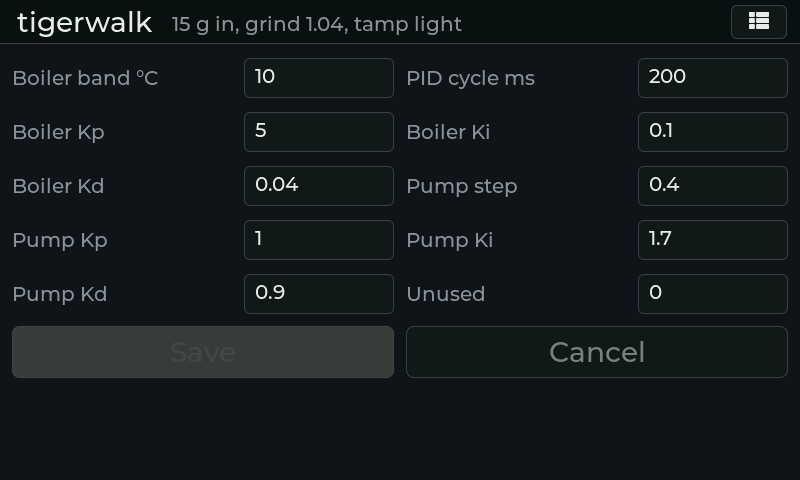
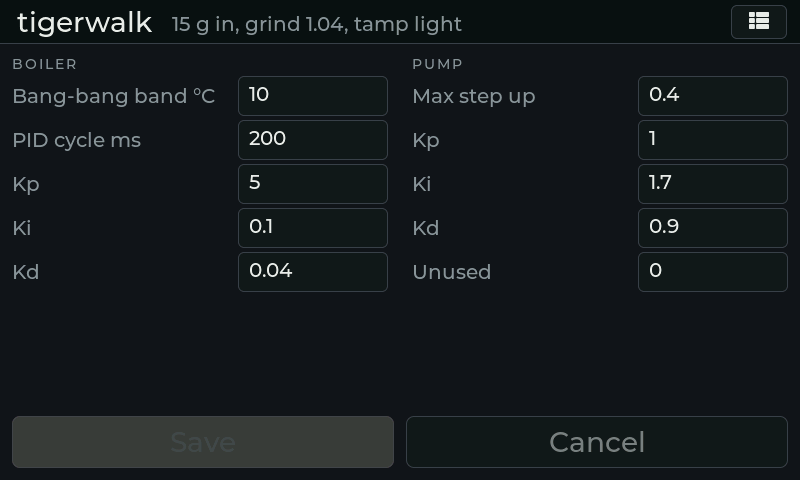
ui: phase name in the timer tile, profile highlight follows the selection, settings grouped by function
Claude-Session: https://claude.ai/code/session_016XyD3ZMrdy4hijk3p6yM2m

diff --git a/gaggiano-v2/lv_buildUI.c b/gaggiano-v2/lv_buildUI.c
@@ -10,6 +10,7 @@
 #include "my_logging.h"
 #include "theme.h"
 #include "history.h"
+#include "sequencer.h"
 #include <stdio.h>
 #include <stdlib.h>
 #include <string.h>
@@ -294,7 +295,7 @@ static void profile_selected(lv_event_t* e) {
       lv_label_set_text(selectedProfileLabel, clickedProfileName);
       writeCurrentProfile(clickedProfileName);
       setupAndReadConfigFile();
-      //TODO shouldn't we update the settings/advanced tab?
+      updateProfileTab();
     }
   }
 }
@@ -634,8 +635,19 @@ void updateUI() {
   } else {
     lv_label_set_text(time_label, "0");
   }
-  if (state->lastBrewTime > 0 && !running) {
+  const char* phase = NULL;
+  int ph = sequencerPhase();
+  if (ph == PHASE_BLOOM_FILL) phase = "PRIME";
+  else if (ph == PHASE_BLOOM_WAIT) phase = "WAIT";
+  else if (ph == PHASE_BREW || state->isBrewing) phase = "BREW";
+  else if (state->isCleaning) phase = "CLEAN";
+  else if (state->isSteaming) phase = "STEAM";
+  if (phase != NULL) {
+    lv_label_set_text(time_sub_label, phase);
+    lv_obj_set_style_text_color(time_sub_label, theme_amber(), 0);
+  } else if (state->lastBrewTime > 0) {
     lv_label_set_text_fmt(time_sub_label, "LAST SHOT %.0f S", state->lastBrewTime);
+    lv_obj_set_style_text_color(time_sub_label, theme_muted(), 0);
   } else {
     lv_label_set_text(time_sub_label, "");
   }
@@ -972,20 +984,51 @@ static void profile_create(lv_obj_t* parent) {
   }
 }
 
-// One "label: [value]" pair of a settings grid at (col, row); col is 0 or 2.
-static lv_obj_t* field_create(lv_obj_t* parent, const char* text, lv_obj_t* kb, int col, int row) {
-  lv_obj_t* label = lv_label_create(parent);
+// A titled group of fields (flex column) inside a settings column.
+static lv_obj_t* group_create(lv_obj_t* column, const char* title) {
+  lv_obj_t* group = lv_obj_create(column);
+  lv_obj_remove_style_all(group);
+  lv_obj_set_width(group, LV_PCT(100));
+  lv_obj_set_height(group, LV_SIZE_CONTENT);
+  lv_obj_set_flex_flow(group, LV_FLEX_FLOW_COLUMN);
+  lv_obj_set_style_pad_row(group, 4, 0);
+  lv_obj_t* label = lv_label_create(group);
+  theme_apply_tile_label(label);
+  lv_label_set_text(label, title);
+  return group;
+}
+
+// One "label ........ [value]" row in a group.
+static lv_obj_t* field_create(lv_obj_t* group, const char* text, lv_obj_t* kb) {
+  lv_obj_t* row = lv_obj_create(group);
+  lv_obj_remove_style_all(row);
+  lv_obj_set_width(row, LV_PCT(100));
+  lv_obj_set_height(row, 40);
+  lv_obj_set_flex_flow(row, LV_FLEX_FLOW_ROW);
+  lv_obj_set_flex_align(row, LV_FLEX_ALIGN_START, LV_FLEX_ALIGN_CENTER, LV_FLEX_ALIGN_CENTER);
+
+  lv_obj_t* label = lv_label_create(row);
   theme_apply_field_label(label);
   lv_label_set_text(label, text);
-  lv_obj_set_grid_cell(label, LV_GRID_ALIGN_START, col, 1, LV_GRID_ALIGN_CENTER, row, 1);
+  lv_obj_set_flex_grow(label, 1);
 
-  lv_obj_t* tf = lv_textarea_create(parent);
+  lv_obj_t* tf = lv_textarea_create(row);
   theme_apply_field(tf);
   lv_textarea_set_one_line(tf, true);
-  lv_obj_set_height(tf, 40);
+  lv_obj_set_size(tf, 150, 40);
   lv_obj_add_event_cb(tf, setting_field_changed, LV_EVENT_ALL, kb);
-  lv_obj_set_grid_cell(tf, LV_GRID_ALIGN_STRETCH, col + 1, 1, LV_GRID_ALIGN_CENTER, row, 1);
   return tf;
+}
+
+// A settings column: groups stacked top to bottom.
+static lv_obj_t* column_create(lv_obj_t* parent, int col, int row) {
+  lv_obj_t* column = lv_obj_create(parent);
+  lv_obj_remove_style_all(column);
+  lv_obj_set_height(column, LV_SIZE_CONTENT);
+  lv_obj_set_flex_flow(column, LV_FLEX_FLOW_COLUMN);
+  lv_obj_set_style_pad_row(column, 12, 0);
+  lv_obj_set_grid_cell(column, LV_GRID_ALIGN_STRETCH, col, 1, LV_GRID_ALIGN_START, row, 1);
+  return column;
 }
 
 static lv_obj_t* view_btn_create(lv_obj_t* parent, const char* text, lv_event_cb_t cb) {
@@ -1012,9 +1055,10 @@ static lv_obj_t* numeric_keyboard_create(void) {
 static void settings_create(lv_obj_t* parent) {
   theme_apply_view(parent);
   lv_obj_clear_flag(parent, LV_OBJ_FLAG_SCROLLABLE);
-  static lv_coord_t col_dsc[] = { LV_GRID_FR(1), 150, LV_GRID_FR(1), 150, LV_GRID_TEMPLATE_LAST };
-  static lv_coord_t row_dsc[] = { 40, 44, 44, 44, 44, 44, 52, LV_GRID_TEMPLATE_LAST };
+  static lv_coord_t col_dsc[] = { LV_GRID_FR(1), LV_GRID_FR(1), LV_GRID_TEMPLATE_LAST };
+  static lv_coord_t row_dsc[] = { 40, LV_GRID_FR(1), 52, LV_GRID_TEMPLATE_LAST };
   lv_obj_set_grid_dsc_array(parent, col_dsc, row_dsc);
+  lv_obj_set_style_pad_column(parent, 24, 0);
 
   lv_obj_t* kb = numeric_keyboard_create();
   lv_obj_t* kb2 = lv_keyboard_create(lv_scr_act());
@@ -1027,23 +1071,30 @@ static void settings_create(lv_obj_t* parent) {
   lv_textarea_set_placeholder_text(edit_notes_tf, "Notes");
   lv_obj_set_height(edit_notes_tf, 40);
   lv_obj_add_event_cb(edit_notes_tf, setting_field_changed, LV_EVENT_ALL, kb2);
-  lv_obj_set_grid_cell(edit_notes_tf, LV_GRID_ALIGN_STRETCH, 0, 4, LV_GRID_ALIGN_CENTER, 0, 1);
+  lv_obj_set_grid_cell(edit_notes_tf, LV_GRID_ALIGN_STRETCH, 0, 2, LV_GRID_ALIGN_CENTER, 0, 1);
 
-  brew_temp_tf = field_create(parent, "Brew temp °C", kb, 0, 1);
-  brew_pressure_tf = field_create(parent, "Brew bar", kb, 2, 1);
-  steam_temp_tf = field_create(parent, "Steam temp °C", kb, 0, 2);
-  steam_max_pressure_tf = field_create(parent, "Steam max bar", kb, 2, 2);
-  steam_pump_output_perc_tf = field_create(parent, "Steam pump %", kb, 0, 3);
-  brew_timer_tf = field_create(parent, "Auto brew s", kb, 2, 3);
-  blooming_pressure_tf = field_create(parent, "Bloom bar", kb, 0, 4);
-  blooming_fill_time_tf = field_create(parent, "Bloom fill s", kb, 2, 4);
-  blooming_wait_time_tf = field_create(parent, "Bloom wait s", kb, 0, 5);
+  lv_obj_t* left = column_create(parent, 0, 1);
+  lv_obj_t* g = group_create(left, "BREW");
+  brew_temp_tf = field_create(g, "Temperature °C", kb);
+  brew_pressure_tf = field_create(g, "Pressure bar", kb);
+  g = group_create(left, "STEAM");
+  steam_temp_tf = field_create(g, "Temperature °C", kb);
+  steam_max_pressure_tf = field_create(g, "Max pressure bar", kb);
+  steam_pump_output_perc_tf = field_create(g, "Pump %", kb);
+
+  lv_obj_t* right = column_create(parent, 1, 1);
+  g = group_create(right, "PRIME");
+  blooming_pressure_tf = field_create(g, "Pressure bar", kb);
+  blooming_fill_time_tf = field_create(g, "Fill s", kb);
+  blooming_wait_time_tf = field_create(g, "Wait s", kb);
+  g = group_create(right, "AUTO");
+  brew_timer_tf = field_create(g, "Brew s", kb);
 
   lv_obj_t* row = lv_obj_create(parent);
   lv_obj_remove_style_all(row);
   lv_obj_set_flex_flow(row, LV_FLEX_FLOW_ROW);
   lv_obj_set_style_pad_column(row, GAP, 0);
-  lv_obj_set_grid_cell(row, LV_GRID_ALIGN_STRETCH, 0, 4, LV_GRID_ALIGN_STRETCH, 6, 1);
+  lv_obj_set_grid_cell(row, LV_GRID_ALIGN_STRETCH, 0, 2, LV_GRID_ALIGN_STRETCH, 2, 1);
   setBtn = view_btn_create(row, "Save", setButtonClicked);
   view_btn_create(row, "Cancel", cancelButtonClicked);
   clearLogsBtn = view_btn_create(row, "Clear logs", clearLogsBtnClicked);
@@ -1052,28 +1103,34 @@ static void settings_create(lv_obj_t* parent) {
 static void advancedSettings_create(lv_obj_t* parent) {
   theme_apply_view(parent);
   lv_obj_clear_flag(parent, LV_OBJ_FLAG_SCROLLABLE);
-  static lv_coord_t col_dsc[] = { LV_GRID_FR(1), 150, LV_GRID_FR(1), 150, LV_GRID_TEMPLATE_LAST };
-  static lv_coord_t row_dsc[] = { 44, 44, 44, 44, 44, 52, LV_GRID_TEMPLATE_LAST };
+  static lv_coord_t col_dsc[] = { LV_GRID_FR(1), LV_GRID_FR(1), LV_GRID_TEMPLATE_LAST };
+  static lv_coord_t row_dsc[] = { LV_GRID_FR(1), 52, LV_GRID_TEMPLATE_LAST };
   lv_obj_set_grid_dsc_array(parent, col_dsc, row_dsc);
+  lv_obj_set_style_pad_column(parent, 24, 0);
 
   lv_obj_t* kb = numeric_keyboard_create();
 
-  boiler_bb_range_tf = field_create(parent, "Boiler band °C", kb, 0, 0);
-  boiler_PID_cycle_tf = field_create(parent, "PID cycle ms", kb, 2, 0);
-  boiler_PID_KP_tf = field_create(parent, "Boiler Kp", kb, 0, 1);
-  boiler_PID_KI_tf = field_create(parent, "Boiler Ki", kb, 2, 1);
-  boiler_PID_KD_tf = field_create(parent, "Boiler Kd", kb, 0, 2);
-  pump_max_step_up_tf = field_create(parent, "Pump step", kb, 2, 2);
-  pump_KP_tf = field_create(parent, "Pump Kp", kb, 0, 3);
-  pump_KI_tf = field_create(parent, "Pump Ki", kb, 2, 3);
-  pump_KD_tf = field_create(parent, "Pump Kd", kb, 0, 4);
-  unused1_tf = field_create(parent, "Unused", kb, 2, 4);
+  lv_obj_t* left = column_create(parent, 0, 0);
+  lv_obj_t* g = group_create(left, "BOILER");
+  boiler_bb_range_tf = field_create(g, "Bang-bang band °C", kb);
+  boiler_PID_cycle_tf = field_create(g, "PID cycle ms", kb);
+  boiler_PID_KP_tf = field_create(g, "Kp", kb);
+  boiler_PID_KI_tf = field_create(g, "Ki", kb);
+  boiler_PID_KD_tf = field_create(g, "Kd", kb);
+
+  lv_obj_t* right = column_create(parent, 1, 0);
+  g = group_create(right, "PUMP");
+  pump_max_step_up_tf = field_create(g, "Max step up", kb);
+  pump_KP_tf = field_create(g, "Kp", kb);
+  pump_KI_tf = field_create(g, "Ki", kb);
+  pump_KD_tf = field_create(g, "Kd", kb);
+  unused1_tf = field_create(g, "Unused", kb);
 
   lv_obj_t* row = lv_obj_create(parent);
   lv_obj_remove_style_all(row);
   lv_obj_set_flex_flow(row, LV_FLEX_FLOW_ROW);
   lv_obj_set_style_pad_column(row, GAP, 0);
-  lv_obj_set_grid_cell(row, LV_GRID_ALIGN_STRETCH, 0, 4, LV_GRID_ALIGN_STRETCH, 5, 1);
+  lv_obj_set_grid_cell(row, LV_GRID_ALIGN_STRETCH, 0, 2, LV_GRID_ALIGN_STRETCH, 1, 1);
   advancedSetBtn = view_btn_create(row, "Save", advancedSetButtonClicked);
   view_btn_create(row, "Cancel", advancedCancelButtonClicked);
 }

diff --git a/sim/main.cpp b/sim/main.cpp
@@ -196,6 +196,12 @@ int main(int argc, char **argv) {
     state.lastBrewTime = 31;
     lv_obj_add_state(brew_btn_for_scene(), LV_STATE_CHECKED);
   }
+  if (strcmp(scene, "prime") == 0) {
+    state.isBoilerOn = true;
+    temp = 92.0f;
+    state.isBlooming = true;
+    lv_obj_add_state(heat_btn_for_scene(), LV_STATE_CHECKED);
+  }
   if (strcmp(scene, "steaming") == 0) {
     state.isSteaming = true;
     temp = 128.0f;
@@ -205,7 +211,7 @@ int main(int argc, char **argv) {
   if (strcmp(scene, "profiles") == 0) show_view_for_scene(1);
   if (strcmp(scene, "settings") == 0) show_view_for_scene(2);
   if (strcmp(scene, "advanced") == 0) show_view_for_scene(3);
-  if (strcmp(scene, "heating") == 0 || strcmp(scene, "brewing") == 0 || strcmp(scene, "steaming") == 0) state.hasCommandChanged = true;
+  if (strcmp(scene, "heating") == 0 || strcmp(scene, "brewing") == 0 || strcmp(scene, "steaming") == 0 || strcmp(scene, "prime") == 0) state.hasCommandChanged = true;
 
   uint32_t lastUi = 0, lastTick = nowMs(), start = nowMs();
   bool running = true;

diff --git a/gaggiano-v2/sequencer.h b/gaggiano-v2/sequencer.h
@@ -3,12 +3,17 @@
 // bloom wait / timed brew phases. Pure logic, no Arduino; tested on the host.
 #pragma once
 #include <stdint.h>
+#include <stdbool.h>
 #include "gaggia_state.h"
 
 #define PHASE_OFF 0
 #define PHASE_BLOOM_FILL 2
 #define PHASE_BLOOM_WAIT 3
 #define PHASE_BREW 4
+
+#ifdef __cplusplus
+extern "C" {
+#endif
 
 struct SeqCommand {
   int mode;  // GP_MODE_* from gaggia_protocol.h
@@ -19,6 +24,10 @@ struct SeqCommand {
 
 // Advances the phase machine. Clears state->hasCommandChanged when it consumes it.
 // Returns true when *out holds a command that must be sent to the controller.
-bool sequencerStep(GaggiaStateT *state, uint32_t now, SeqCommand *out);
-int sequencerPhase();
-void sequencerReset();
+bool sequencerStep(GaggiaStateT *state, uint32_t now, struct SeqCommand *out);
+int sequencerPhase(void);
+void sequencerReset(void);
+
+#ifdef __cplusplus
+}
+#endif
